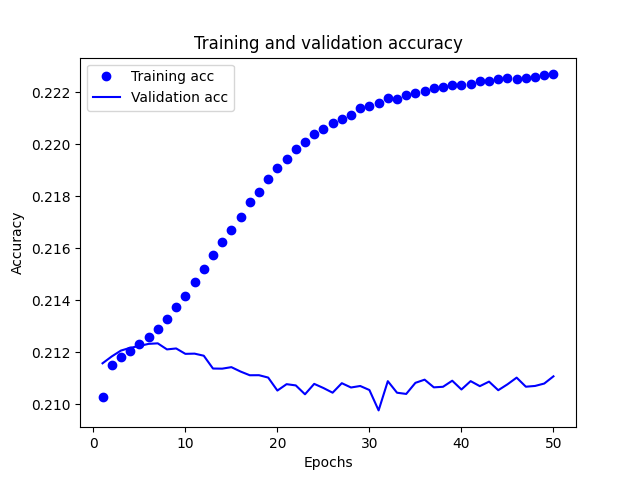
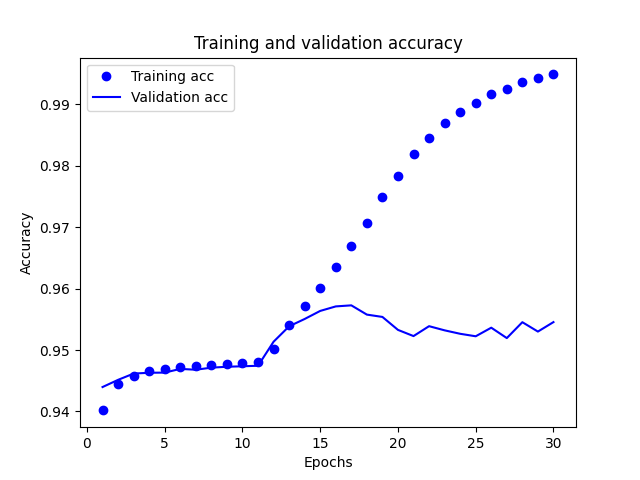
Added augmentations, freezing layers, neck changed

diff --git a/common/utils.py b/common/utils.py
@@ -73,9 +73,9 @@ def evaluate_accuracy(net, data_iter, loss, device, threshold):
             l = loss(y_hat, y)
             total_loss += float(l)
             total_hits += acc(y_hat, y, threshold)
-            total_samples += y.numel()
+            total_samples += 1
             total_f1 += batch_f1_score(y_hat, y, threshold)
-    return float(total_loss) / len(data_iter), float(total_hits) / total_samples  * 100, total_f1 / (total_samples / 28 * 100)
+    return float(total_loss) / len(data_iter), float(total_hits) / total_samples, float(total_f1) / total_samples
 
 def train_epoch(net, train_iter, loss, optimizer, device, threshold):  
     # Set the model to training mode
@@ -101,9 +101,9 @@ def train_epoch(net, train_iter, loss, optimizer, device, threshold):
         total_loss += float(l)
         total_hits += acc(y_hat, y, threshold)
         train_f1 += batch_f1_score(y_hat, y, threshold)
-        total_samples += y.numel()
+        total_samples += 1
     # Return training loss and training accuracy
-    return float(total_loss) / len(train_iter), float(total_hits) / total_samples  * 100, train_f1 / (total_samples / (len(X) * 28))
+    return float(total_loss) / len(train_iter), float(total_hits) / total_samples, float(train_f1) / total_samples
 
 def train(net, train_iter, val_iter, num_epochs, lr, threshold, device, save_model):
     """Train a model."""
@@ -115,6 +115,9 @@ def train(net, train_iter, val_iter, num_epochs, lr, threshold, device, save_mod
     val_f1_all = []
     print('Training on', device)
     net.to(device)
+    print("Freezing the resnet layers for the first 10 epochs...")
+    for param in net.encoder.parameters():
+        param.requires_grad = False
     optimizer = torch.optim.SGD(net.parameters(), lr=lr)
     loss = FocalLoss()
     min_val_loss = 10000.0
@@ -127,9 +130,7 @@ def train(net, train_iter, val_iter, num_epochs, lr, threshold, device, save_mod
         val_loss_all.append(val_loss)
         val_acc_all.append(val_acc)
         val_f1_all.append(val_f1)
-        print(f'Epoch {epoch + 1}, \
-                    Train loss {train_loss:.4f}, Train accuracy {train_acc:.4f}, Train F1 score {train_f1:.4f}\
-                    Validation loss {val_loss:.4f}, Validation accuracy {val_acc:.4f}, Validation F1 score {val_f1:.4f}')
+        print(f'Epoch {epoch + 1}, \nTrain loss {train_loss:.4f}, Train accuracy {train_acc:.4f}, Train F1 score {train_f1:.4f}\nValidation loss {val_loss:.4f}, Validation accuracy {val_acc:.4f}, Validation F1 score {val_f1:.4f}')
 
         # save model if it has lower loss and save_model equals True
         if val_loss < min_val_loss and save_model:
@@ -138,3 +139,9 @@ def train(net, train_iter, val_iter, num_epochs, lr, threshold, device, save_mod
         
         plot_loss(train_loss_all, val_loss_all)
         plot_accuracy(train_acc_all, val_acc_all)
+
+        # Unfreeze resnet layers after 10 epochs
+        if epoch == 10:
+            print("Unfreezing the resnet layers")
+            for param in net.encoder.parameters():
+                param.requires_grad = True

diff --git a/common/dataset.py b/common/dataset.py
@@ -6,6 +6,7 @@ import math
 import torch
 from torch.utils.data import Dataset
 from torch.utils.data import DataLoader
+from torchvision.transforms import Compose, RandomRotation, RandomHorizontalFlip, RandomVerticalFlip, ToTensor
 
 
 name_label_dict = {
@@ -40,10 +41,17 @@ name_label_dict = {
 
 
 class ProteinAtlasDataset(Dataset):
-    def __init__(self, annotations_file, img_dir, img_size):
+    def __init__(self, annotations_file, img_dir, img_size, augmentation):
         self.img_labels = pd.read_csv(annotations_file)
         self.img_dir = img_dir
         self.img_size = img_size
+        self.augmentation = augmentation
+        self.transform = Compose([
+                ToTensor(),
+                RandomRotation(30),
+                RandomHorizontalFlip(0.3),
+                RandomVerticalFlip(0.3)
+            ])
 
     def __len__(self):
         return len(self.img_labels)
@@ -51,6 +59,8 @@ class ProteinAtlasDataset(Dataset):
     def __getitem__(self, idx):
         img_path = os.path.join(self.img_dir, self.img_labels.iloc[idx, 0])
         image = self.read_rgby(img_path, self.img_size)
+        if self.augmentation:
+            image = self.transform(image)
         targets = np.array([int(x) for x in self.img_labels.iloc[idx, 1].split(' ')])
         label = np.sum(np.eye(len(name_label_dict))[targets], axis=0)
         return image, label
@@ -62,7 +72,7 @@ class ProteinAtlasDataset(Dataset):
                 cv2.imread(id + '_' + color + '.png', flags), size).astype(
                             np.float32) / 255 for color in colors]
         imgs = np.stack(imgs, axis=-1)
-        return np.moveaxis(imgs, -1, 0)
+        return imgs # np.moveaxis(imgs, -1, 0)
 
 def load_data(config):
     annotations_file = os.path.join(config['data_pipe']['path'], 
@@ -72,7 +82,8 @@ def load_data(config):
 
     dataset = ProteinAtlasDataset(annotations_file=annotations_file,
                                     img_dir=img_dir,
-                                    img_size=config['model']['image_size'])
+                                    img_size=config['model']['image_size'],
+                                    augmentation=config['training']['augmentation'])
     train_val_split = config['training']['train_val_split']
     no_train = math.ceil(len(dataset) * train_val_split)
     no_val = math.floor(len(dataset) * (1 - train_val_split))

diff --git a/models/resnet.py b/models/resnet.py
@@ -35,14 +35,12 @@ class ResNet(nn.Module):
             nn.Linear(256, 256), 
             nn.ReLU(),
             nn.Linear(256, 28),
-            nn.ReLU()
         )
         self.activation = nn.Sigmoid()
 
     def forward(self, x):
         x = self.encoder(x)
         x = self.neck(x)
-        # x = self.activation(x)
         return x
 
 def load_model(model_config):

diff --git a/train.py b/train.py
@@ -21,7 +21,7 @@ def main():
     print("Starting training...")
     train(model, train_iter, val_iter, num_epochs=config['training']['num_epochs'], 
             lr=config['training']['learning_rate'], 
-            threshold=0.2, device=try_gpu(), 
+            threshold=0.0, device=try_gpu(), 
             save_model=config['training']['save_model'])
 
     
